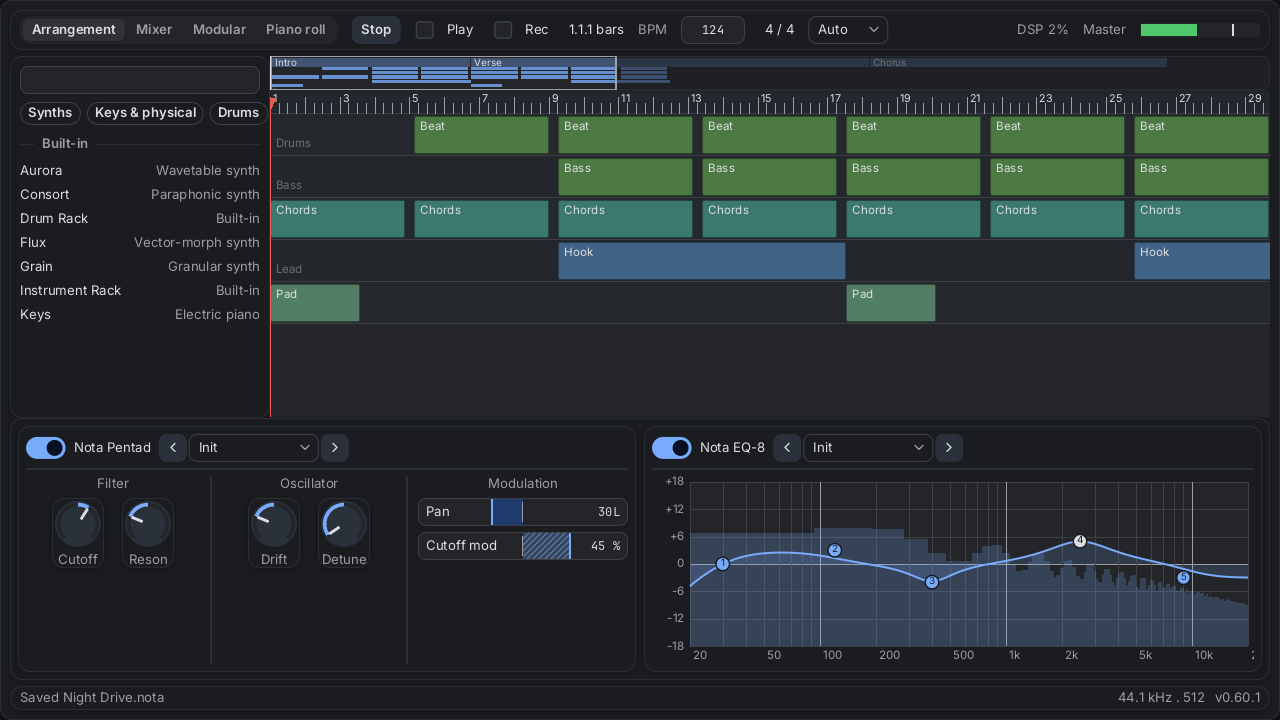
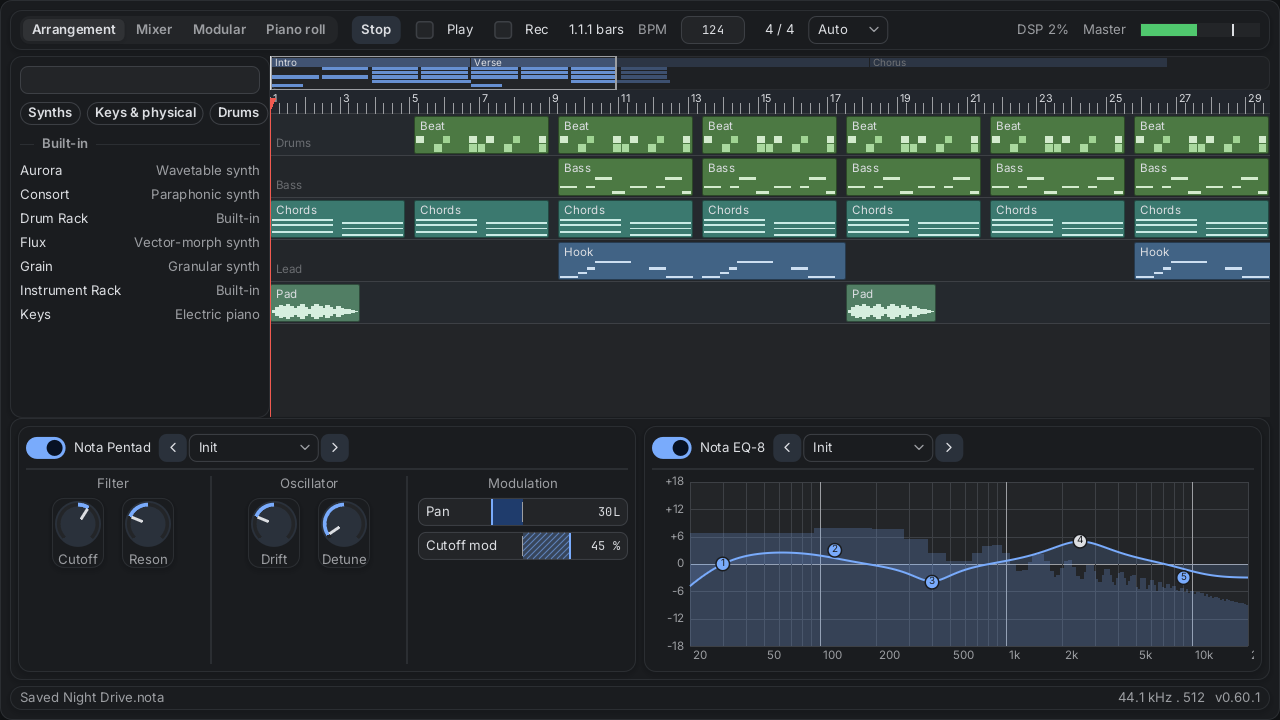
ui: clip bodies, notes / waveform peaks / pattern cells drawn inside timeline clips (TimelineClipSetBody)
Claude-Session: https://claude.ai/code/session_01VmEee8L8hufaEg5kRznT4c

diff --git a/ui/README.md b/ui/README.md
@@ -128,6 +128,8 @@ Picker (`picker.odin`): `UiPicker` is a searchable list popup, the parameter pic
 
 Overview strip (`overview.odin`): `UiOverview` shows the whole arrangement in a thin bar (a block for every clip in the row of its track, sections as a named band, the playhead) with the window of the `TimelineView` as a frame: drag it to scroll, drag its edges to zoom, press outside to centre it. Limits: sections are shown, not edited (no drag to mark one), no vertical scroll of the tracks, clips are plain blocks.
 
+Clip content (`clip_body.odin`): `TimelineClipSetBody(timeline, clip, body)` makes a clip show notes as dashes, mirrored waveform peaks or the cells of a pattern inside of itself; the data is the program's slices, `content_length` repeats it along the clip. Limits: no offset into the content (a clip cut at its left edge shows the content from its start), no velocity shading, no pitch names, mono peaks.
+
 Soft edges: `aa.odin` makes anti-aliased rounded rectangles, rings, discs, lines of any width with round/square/butt ends and mitered joins, and Bezier curves as triangle lists whose edge vertices fade over one pixel (the fringe of NanoVG), written to a storage of yours (`AaMesh`). No shader and no texture: the glue draws the triangles with a color per vertex, in the batch that is open, so a window of soft shapes stays one draw call with its rectangles and text. `ui_default.FillRounded`, `RingRounded`, `Line`, graph cables and ports use it by themselves when the painter has a mesh (`glue_karl2d`, `glue_raylib`, `kit` do); for your own drawing: `ui_default.Polyline`, `Bezier`, `RouteLine`, `Disc`, `PolygonSmooth`. Notes and limits: `docs/ANTI_ALIASING.md`; the `smooth` demo shows them next to the plain shapes.
 
 ## The look: themes, fonts, icons

diff --git a/ui/AGENTS.md b/ui/AGENTS.md
@@ -48,3 +48,4 @@ What is not obvious from the code of this library. The rules that hold for every
 - `widgets_pads.odin` (+ `default_style/pads.odin`): six small widgets, each its own style kind (`RANGE_SLIDER`, `XY_PAD`, `WHEEL`, `SCROLL_BAR_THIN`, `KEYBOARD`, `STEP_GRID`; what a kind reads from `DrawInfo` is in the comment at its entry in `style.odin`). Pointer arithmetic is pure (`KeyboardKeyRect/At`, `StepGridCellAt`, `ScrollBarThumb`). The step grid paints the line of cells between two frames of a fast drag. Demo `pads`.
 - `picker.odin`: `UiPicker` (parameter picker and command palette), `PickerFilter` scoring is pure and tested; rows reuse the `DROPDOWN_ITEM` kind, so no style proc of its own. Its field id is `IdFromString("##query", panel id)`. Demo: chain ("Modulate...").
 - `overview.odin` (+ `default_style/overview.odin`, kind `OVERVIEW`): `Overview` is kept by the program (timeline, view, total, sections; the style reads it through `DrawInfo.user`). Only `view.origin` and `view.zoom` change; the window width is `view.rect.z` of the last drawn timeline. Used in the nota arrangement.
+- `clip_body.odin` (+ `default_style/clip_body.odin`, called by `DrawClip`): `TimelineClip.body` (slices of the program, copied nowhere) reaches the style as `ClipDraw.body`; placement is pure (`ClipBodyNoteRect/Peak/StepRect`, `ClipBodyArea`) and tested. Used by the nota arrangement.

diff --git a/ui/TODO.md b/ui/TODO.md
@@ -159,5 +159,5 @@ Tick an item when it is done and verified (tests pass, committed).
 - [x] Frequency response graph with draggable band nodes (log frequency axis, dB axis) and a spectrum fill; waveform view with zoom and markers
 - [x] Mixer fader with a dB scale and a stereo meter; bars and beats on the timeline ruler with grid snap choices
 - [x] Device card (header with switch and preset selector with arrows, tabs, sections divided by rules) and track header row (colour strip, M / S / R, value bar, pan, input)
-- [x] (medium) Arrangement overview strip, `overview.odin` (sections are shown, not edited; parameter picker and command palette are done: `picker.odin`; range slider, XY pad, wheel, thin scroll bar, step grid and keyboard are done: `widgets_pads.odin`)
+- [x] (medium) Clip bodies (`clip_body.odin`: notes, peaks, cells inside a clip), arrangement overview strip, `overview.odin` (sections are shown, not edited; parameter picker and command palette are done: `picker.odin`; range slider, XY pad, wheel, thin scroll bar, step grid and keyboard are done: `widgets_pads.odin`)
 - [ ] (low) Key and scale picker, modulation matrix, history view, welcome / about / preferences windows, skins with fonts

diff --git a/ui/docs/NOTA_GAP.md b/ui/docs/NOTA_GAP.md
@@ -49,7 +49,7 @@ The demo `nota` (`demo_common/demo_nota.odin`) recreates four screens (arrangeme
 | Modulation matrix (sources x targets, amount per cell) | `VoltMatrix` | `UiTable` | low |
 | ~~Arrangement overview strip~~ done: `UiOverview` (clip blocks, sections band, draggable and zoomable window; used in the nota arrangement). Left: marking sections by drag | `ArrangementView.Overview`, `.Sections` | | done |
 | ~~Bars and beats on the ruler, grid snap choices~~ done: `TimelineView.tempo` turns the ruler into bars and beats, `TimelineSnapChoice` (off, bar, 1/4 .. 1/32, auto). Left: tempo map, triplets | `ArrangementView.TimeAxis`, `SnapChip` | | done |
-| Clip body drawing: notes as dashes, waveform, drum steps inside a clip | `ArrangementView` clips | clip with a title | medium |
+| ~~Clip body drawing~~ done: `TimelineClipSetBody` (notes as dashes, mirrored peaks, pattern cells; the content repeats along the clip) | `ArrangementView` clips | | done |
 | Node graph nodes with an on/off switch in the header, CV ports (diamond), edge colours by signal kind, a minimap | `ModularView` | `UiGraph` (round pins, no header widgets) | medium |
 
 ## Look
